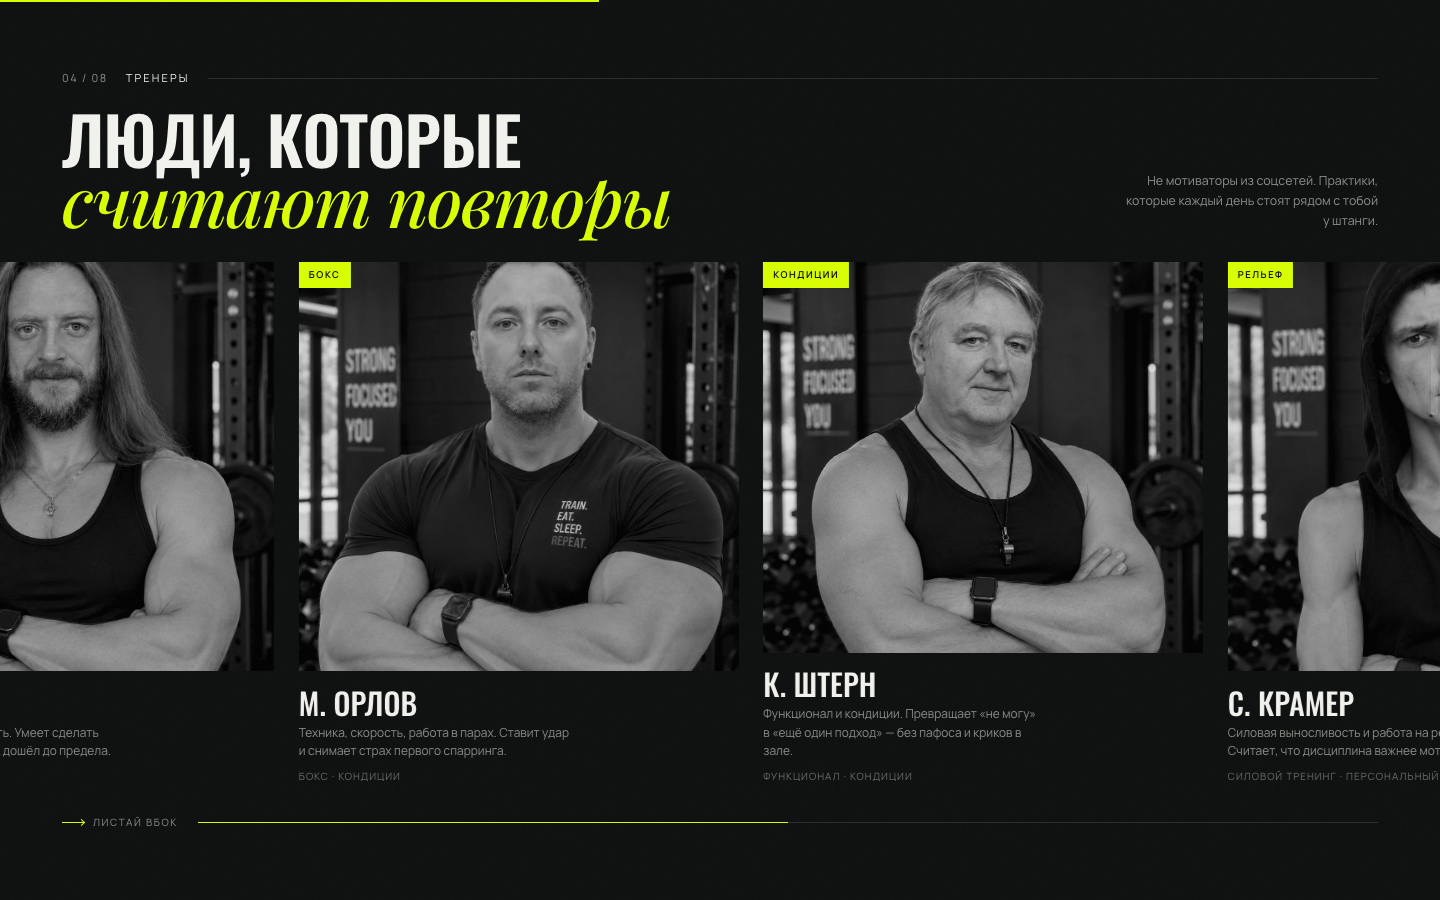
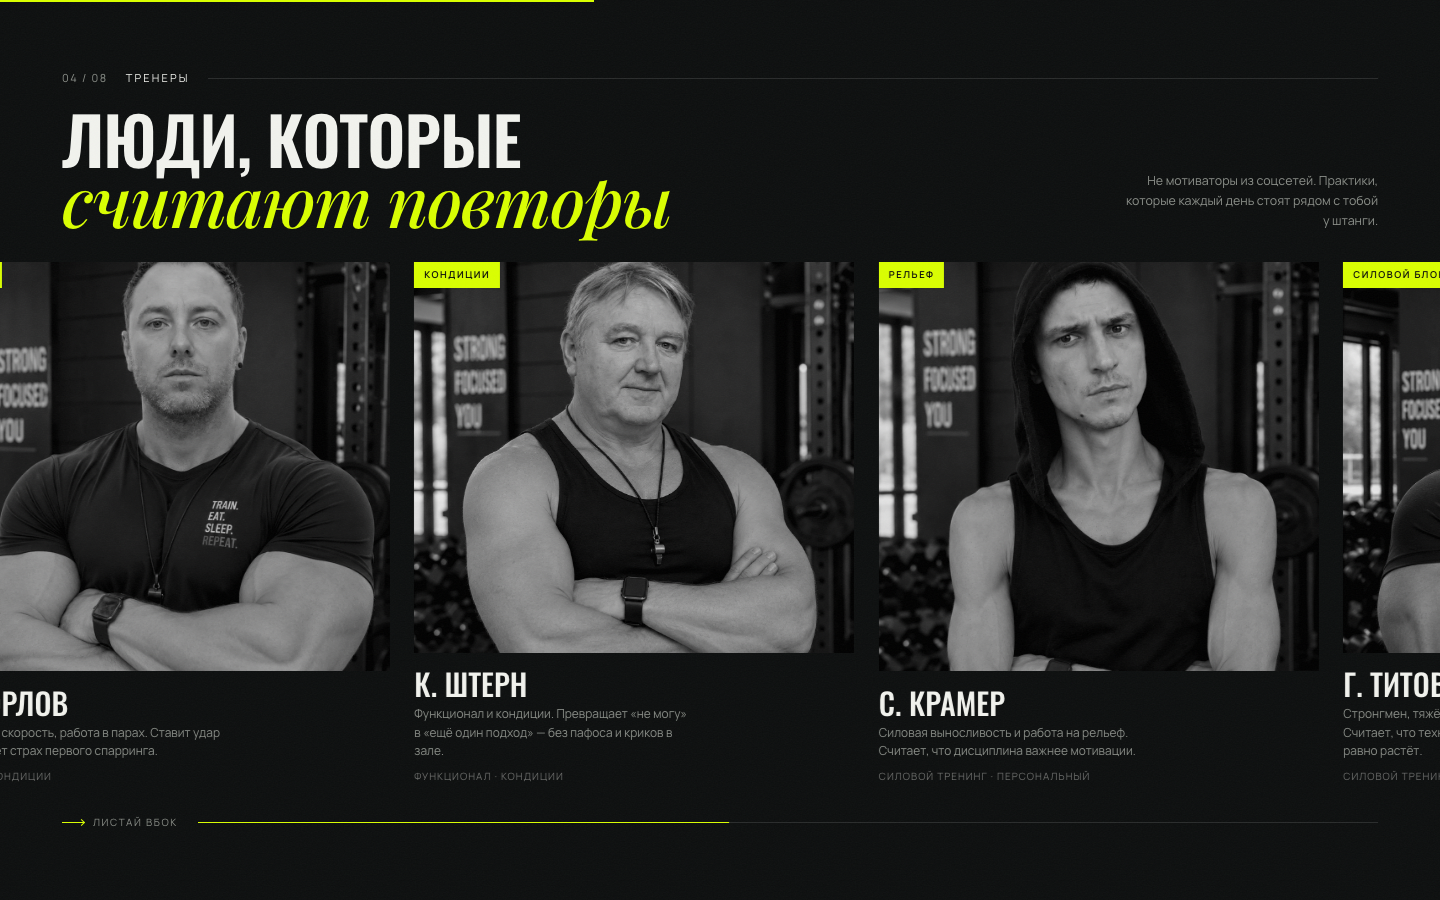
Тренеры: +2 карточки (coach-6, coach-7)
- Добавлены фото «Classic Strongman in the Gym» и «Confident Fitness Portrait in the Gym»
- Обработаны в 1050x1400 JPEG q84 (3:4) под общий формат
- Новые карточки в карусели: Г. Титов (силовой блок), А. Рейн (функционал)
- Карусель пересчитала ширину (8 карточек, track 3753px при 1440); пин-скролл и мобильный рельс в порядке
- Превью 04-coaches, 04b-coaches-end и mobile-full обновлены

diff --git a/index.html b/index.html
@@ -353,6 +353,30 @@
           </div>
         </article>
 
+        <article class="coach" data-reveal>
+          <div class="coach__media">
+            <img src="assets/img/coach-6.jpg" alt="Тренер клуба KOCHKA" loading="lazy" width="1050" height="1400">
+            <span class="coach__tag">Силовой блок</span>
+          </div>
+          <div class="coach__body">
+            <h3>Г. Титов</h3>
+            <p>Стронгмен, тяжёлая база, становая и жим. Считает, что техника важнее веса — но вес всё равно растёт.</p>
+            <span class="coach__link">Силовой тренинг · Персональный</span>
+          </div>
+        </article>
+
+        <article class="coach" data-reveal>
+          <div class="coach__media">
+            <img src="assets/img/coach-7.jpg" alt="Тренер клуба KOCHKA" loading="lazy" width="1050" height="1400">
+            <span class="coach__tag">Функционал</span>
+          </div>
+          <div class="coach__body">
+            <h3>А. Рейн</h3>
+            <p>Функциональный тренинг и работа с весом тела. Собирает программу под реальный график, а не под идеальный.</p>
+            <span class="coach__link">Функционал · Мобилити</span>
+          </div>
+        </article>
+
         <article class="coach coach--cta">
           <div class="coach__cta-inner">
             <span class="coach__tag">Свободное место</span>

diff --git a/README.md b/README.md
@@ -33,13 +33,14 @@ python3 -m http.server 8765
 index.html
 assets/css/style.css   — вся вёрстка и анимации
 assets/js/main.js      — лоадер, reveal, пин-скролл, расписание, цены, форма
-assets/img/            — coach-1…5.jpg (из исходных PNG, сжаты в JPEG)
+assets/img/            — coach-1…7.jpg (3:4, из исходных PNG, сжаты в JPEG)
 preview/               — 8 скриншотов секций 1440×900 (+ финал карусели тренеров) и полная мобильная версия
 ```
 
 ## Что менять под клиента
 
-- **Фото** — `assets/img/coach-1..5.jpg` (3:4). В хиро стоит `coach-3.jpg` (М. Орлов); поменять — атрибут `src` у `img` внутри `.hero__imgwrap`. Имена тренеров/подписи в `index.html` — заглушки (А. Волков, Д. Ким, М. Орлов, К. Штерн, С. Крамер), поставьте реальные.
+- **Фото** — `assets/img/coach-1..7.jpg` (3:4). В хиро стоит `coach-3.jpg` (М. Орлов); поменять — атрибут `src` у `img` внутри `.hero__imgwrap`. Карточки тренеров — блоки `<article class="coach">` в `#coachTrack`; новый тренер = одна такая карточка (картинка 3:4 + имя + био + тег), карусель пересчитает ширину сама.
+- **Имена тренеров** — заглушки: А. Волков, Д. Ким, М. Орлов, К. Штерн, С. Крамер, Г. Титов, А. Рейн. Поставьте реальные.
 - **Расписание** — массив `SCHEDULE` в `assets/js/main.js` (7 дней × 4 занятия).
 - **Цены** — `data-price-month` / `data-price-year` у `.plan__price span`.
 - **Тексты, адрес, телефон** — прямо в `index.html`.
